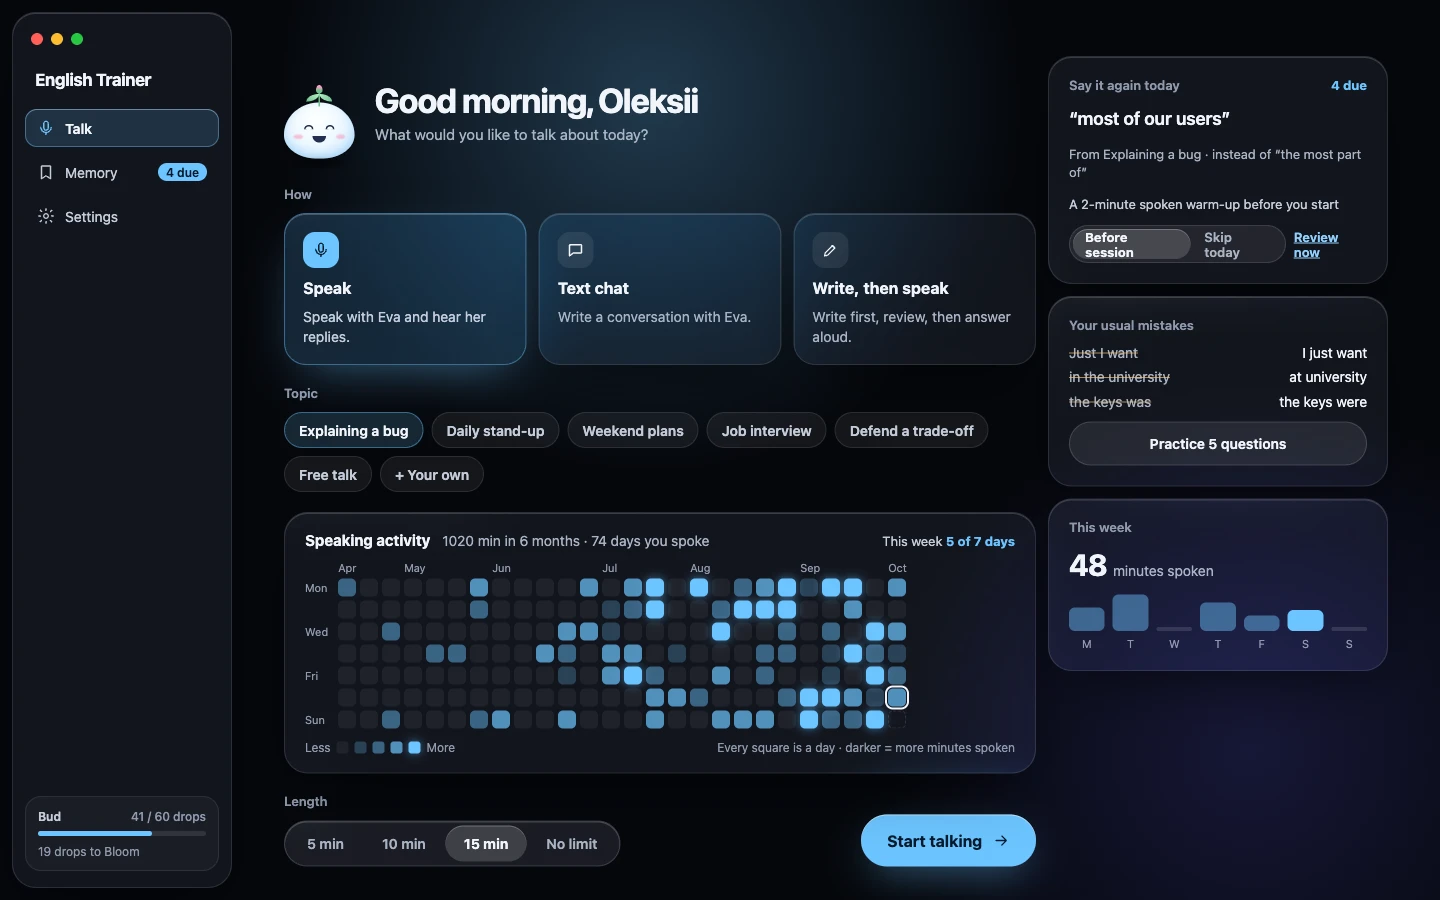
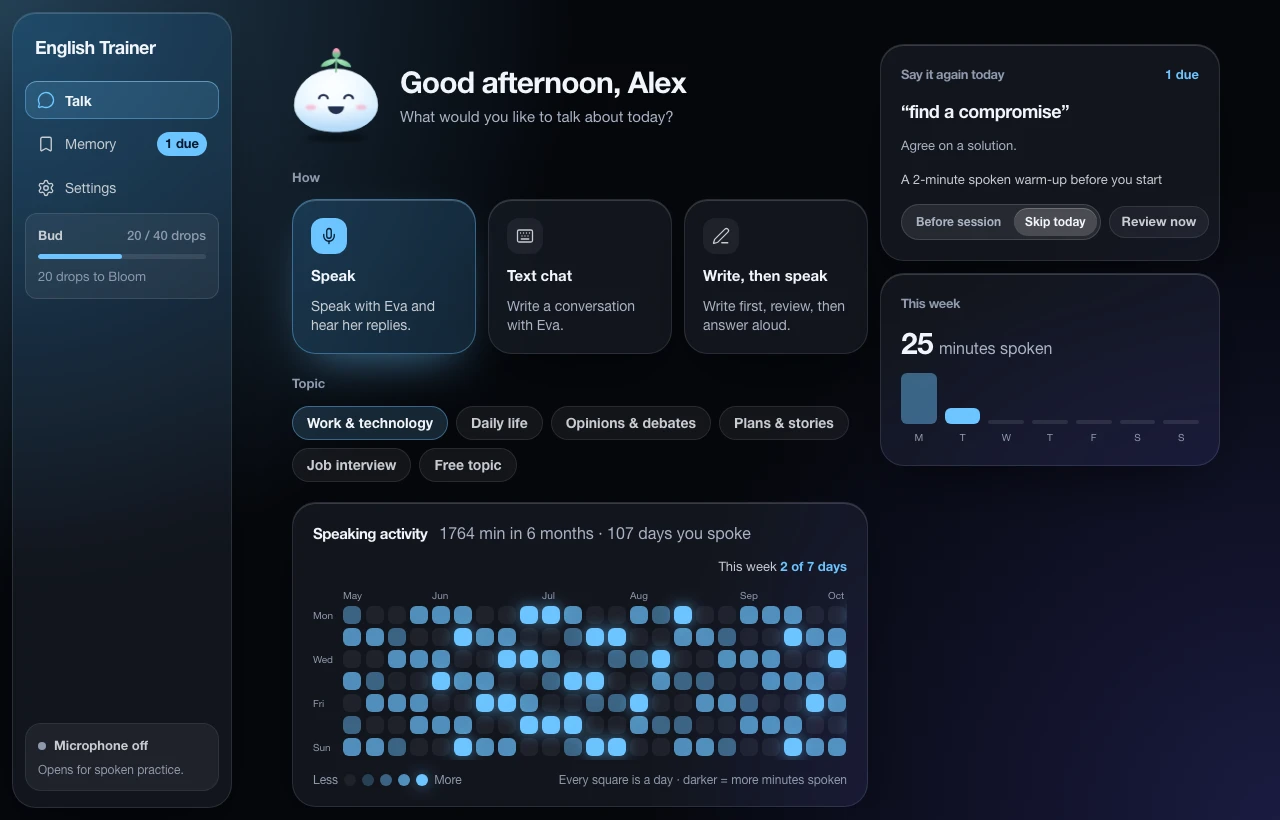
docs: README and FEATURES.md for the current app (#140)
Closes #139

## What

- `README.md`: current feature list (review after the conversation
instead of inline coaching, Eva growth, translation), a flat component
diagram and a link to `FEATURES.md`.
- `docs/images/start-screen.webp`: the glass Start screen in dark theme,
captured from the web build with e2e fake data (no personal history).
- `FEATURES.md`: built features grouped by screen (Start, Talk, Wrap-up,
Memory, Eva growth, Settings, First run, shared core), each with its
roadmap ID and links to its `flow.md`.

## Why

The README described the app before the glass redesign; there was no
single place that shows what is built and where each flow is described.

## Verification

- Every `src/**/flow.md` (56) is linked from `FEATURES.md`; every link
resolves.
- The Mermaid diagram renders (Mermaid 11).
- `bunx biome check README.md FEATURES.md` passes.
- `FEATURES.md` has a feature map: a Mermaid mindmap by screen and a
small learner-loop flowchart; both render.
- Docs only; nothing to check on the Mac.

diff --git a/FEATURES.md b/FEATURES.md
@@ -1,0 +1,163 @@
+# Features
+
+What is built, grouped by where the learner meets it. Each row links to the `flow.md` that shows how
+the feature works as a sequence diagram. IDs and acceptance status are in [ROADMAP](docs/ROADMAP.md);
+behaviour is specified in [PRODUCT_SPEC](docs/PRODUCT_SPEC.md).
+
+Code layers: a **screen** composes **features**; features share state through **core** modules and
+never import each other ([FRONTEND](docs/engineering/FRONTEND.md)).
+
+## Map
+
+Everything the learner can use, by screen:
+
+```mermaid
+mindmap
+  root((English Trainer))
+    Start
+      Practice setup
+      Greeting by name
+      Say it again today
+      Your usual mistakes
+      Speaking activity
+      Continue
+    Talk
+      Streaming conversation
+      Answer capture
+      Need help?
+      Stuck
+      Quiet tip marker
+      Learning use review
+      Spoken recall
+      Write, then speak
+      Translate a selection
+    Wrap-up
+      Session summary
+      Your conversation
+    Memory
+      Practice cards
+      Spoken review
+      Library
+    Eva growth
+      Growth card and screen
+      Look and Dock icon
+    Settings
+      Conversation AI and key
+      Microphone and speech
+      Voice
+      About you
+      Translation
+      Appearance and privacy
+    First run
+      Microphone
+      AI provider
+      Voice
+```
+
+How the screens connect in the learning loop:
+
+```mermaid
+flowchart LR
+  first["First run<br/>microphone · AI · voice"] --> start["Start<br/>mode · topic · length"]
+  start -->|"Speak · Text chat<br/>Write, then speak"| talk["Talk<br/>help · Stuck · translate"]
+  talk -->|"Finish"| wrap["Wrap-up<br/>review of every answer"]
+  wrap -->|"saved phrases<br/>and mistakes"| memory["Memory<br/>library"]
+  memory -->|"due today"| review["Spoken review<br/>warm-up"]
+  review --> talk
+  memory -->|"usual mistakes"| talk
+  talk -.->|"minutes spoken"| growth["Eva grows<br/>Dock icon"]
+```
+
+## Start
+
+The first screen: how and what to talk about, and what is due today.
+Screen: [`screens/talk-start`](src/screens/talk-start/flow.md).
+
+| Feature | ID | What it does | Flow |
+| :--- | :---: | :--- | :--- |
+| Practice setup | F8 | Speak, Text chat or Write, then speak; a topic; a suggested length or No limit | [practice-setup](src/features/practice-setup/flow.md) |
+| Greeting by name | F8 | "Good afternoon, Alex" from the saved profile | [personal-profile](src/features/personal-profile/flow.md) |
+| Say it again today | F10 | The next due phrase, with a spoken warm-up before the session or a skip | [review-warmup](src/features/review-warmup/flow.md) |
+| Your usual mistakes | F12 | Up to three repeated mistakes and a five-question practice | [usual-mistakes](src/features/usual-mistakes/flow.md) |
+| Speaking activity | — | A 26-week grid and "This week" minutes, from local sessions only | [speaking-activity](src/features/speaking-activity/flow.md) |
+| Continue | — | Resumes a conversation that is still open, also after a restart | [session-resume](src/features/session-resume/flow.md) |
+
+## Talk
+
+The conversation itself. Screen: [`screens/talk`](src/screens/talk/flow.md).
+
+| Feature | ID | What it does | Flow |
+| :--- | :---: | :--- | :--- |
+| Streaming conversation | F1, F4 | Eva's reply streams in and is spoken sentence by sentence; the learner can interrupt | [practice-turn](src/core/practice-turn/flow.md) · [talk-dialogue](src/features/talk-dialogue/flow.md) |
+| Answer capture | F2, F3 | Warm microphone, push-to-talk or hands-free, turn detection, live transcript | [answer-capture](src/core/answer-capture/flow.md) · [talk-composer](src/features/talk-composer/flow.md) |
+| Session header and clock | F8 | Progress, the session clock and Finish | [talk-session](src/features/talk-session/flow.md) |
+| Need help? | F6 | Frame, Phrases and a model Example, prepared before the learner starts | [answer-help](src/features/answer-help/flow.md) |
+| Stuck | F7 | Next step, a simpler way to say it or a missing word, without ending the recording | [rescue](src/features/rescue/flow.md) |
+| Quiet tip marker | F5 | An answer with a review waiting gets a marker; the review itself is on the wrap-up | [talk-dialogue](src/features/talk-dialogue/flow.md) |
+| Learning use review | — | Did the learner use a saved phrase or avoid a known mistake | [usage-review](src/features/usage-review/flow.md) |
+| Spoken recall | — | After the last answer, say a phrase saved in an earlier session | [spoken-recall](src/features/spoken-recall/flow.md) |
+| Write, then speak | F11 | Write an answer, see it reviewed, then say it aloud and see that reviewed | [write-speak](src/features/write-speak/flow.md) |
+| Translate a selection | F13 | A selected word or phrase in the learner's language plus an English explanation, on the Mac | [text-translation](src/features/text-translation/flow.md) |
+
+## Wrap-up
+
+The page after Finish. Screen: [`screens/wrap-up`](src/screens/wrap-up/flow.md).
+
+| Feature | ID | What it does | Flow |
+| :--- | :---: | :--- | :--- |
+| Session summary | F9 | Numbers, up to three phrases worth learning, save and undo | [wrap-up](src/features/wrap-up/flow.md) |
+| Your conversation | F5 | Every answer with a more natural version, the changed words marked, one reason, Hear it and Say it again | [coaching-note](src/features/coaching-note/flow.md) |
+
+## Memory
+
+Saved phrases and recurring mistakes. Screens: [`screens/memory`](src/screens/memory/flow.md),
+[`screens/spoken-review`](src/screens/spoken-review/flow.md).
+
+| Feature | ID | What it does | Flow |
+| :--- | :---: | :--- | :--- |
+| Practice cards | F10, F12 | Start the spoken review or the usual-mistakes practice | [memory-practice](src/features/memory-practice/flow.md) |
+| Spoken review | F10 | A situation per due item, the answer aloud, Rust decides whether the wording came up | [spoken-review](src/features/spoken-review/flow.md) |
+| Library | — | Phrases and mistakes with their evidence (Say it now, With help), search, archive and delete | [memory-library](src/features/memory-library/flow.md) |
+| Learning data | — | Reads and decodes Memory from Rust for every feature above | [learning-memory](src/core/learning-memory/flow.md) |
+
+## Eva growth
+
+Eva grows from a seed to full bloom with every minute spoken; nothing wilts and there are no streaks.
+Screen: [`screens/growth`](src/screens/growth/flow.md).
+
+| Feature | ID | What it does | Flow |
+| :--- | :---: | :--- | :--- |
+| Growth card and screen | — | The sidebar card, the stage strip, "How Eva grows" and "Today" | [eva-growth](src/features/eva-growth/flow.md) · [core](src/core/eva-growth/flow.md) |
+| Eva's look and Dock icon | — | Colours, motion, show growth, a Dock icon that grows with her | [eva-settings](src/features/eva-settings/flow.md) · [eva-look](src/core/eva-look/flow.md) |
+
+## Settings
+
+Screen: [`screens/settings`](src/screens/settings/flow.md).
+
+| Feature | ID | What it does | Flow |
+| :--- | :---: | :--- | :--- |
+| Conversation AI | F1 | Provider, Eva's style, Test AI response | [ai-provider](src/features/ai-provider/flow.md) · [ai-settings](src/core/ai-settings/flow.md) |
+| Gemini key | F1 | The key goes to an encrypted file; only its status comes back | [gemini-key](src/features/gemini-key/flow.md) |
+| Usage | — | Requests counted and limit errors noted for Gemini and `agy` | [api-usage](src/features/api-usage/flow.md) |
+| Conversation flow | F2 | Hands-free, listening after Eva, interrupting by voice, end-of-turn pause, auto-send | [conversation-flow-settings](src/features/conversation-flow-settings/flow.md) · [core](src/core/conversation-flow/flow.md) |
+| Microphone | F2 | Input device, live level, ten-second check | [microphone-settings](src/features/microphone-settings/flow.md) · [audio](src/core/audio/flow.md) |
+| Speech recognition | F3 | Whisper model, a speech check on the learner's own voice, live transcript | [speech-recognition-settings](src/features/speech-recognition-settings/flow.md) |
+| Personal glossary | F3 | Words and names Whisper should know | [glossary](src/features/glossary/flow.md) |
+| Voice | V1 | Natural local voices or system voices, speed, a sample | [voice-settings](src/features/voice-settings/flow.md) · [voice-preference](src/core/voice-preference/flow.md) · [speech](src/core/speech/flow.md) |
+| About you | F8 | Name, role, stack, interests and goals for Eva's prompts | [personal-profile](src/features/personal-profile/flow.md) |
+| Translation | F13 | Native language and preparing the language pair | [translation-settings](src/features/translation-settings/flow.md) · [core](src/core/translation-settings/flow.md) |
+| Appearance | — | System, Light or Dark | [appearance](src/features/appearance/flow.md) |
+| Privacy | — | What stays on the Mac, keeping raw audio, deleting recordings | [privacy](src/features/privacy/flow.md) |
+| Setup details | — | What the app found for Whisper, `agy` and the database; run setup again | [setup-details](src/features/setup-details/flow.md) |
+
+## First run
+
+Three steps on the first launch: microphone, AI provider with the Gemini key, and Eva's voice.
+Screen: [`screens/first-run`](src/screens/first-run/flow.md) · rules: [first-run](src/core/first-run/flow.md).
+
+## Shared core
+
+| Module | What it owns | Flow |
+| :--- | :--- | :--- |
+| Practice session | The open conversation, its stage and the Rust boundary | [practice-session](src/core/practice-session/flow.md) |
+| External link | Opening links in the browser | [external-link](src/core/external-link/flow.md) |

diff --git a/README.md b/README.md
@@ -1,42 +1,46 @@
 # English Trainer
 
 Practise **speaking** English with Eva, an AI partner on your Mac that answers in about two seconds,
-helps you structure an answer while you speak, and brings back the phrases worth remembering.
+helps you structure an answer and brings back the phrases worth remembering.
 
 macOS · Apple Silicon · local speech recognition · your history never leaves the Mac
 
-![The start screen: choose how and what to talk about, with speaking activity and phrases due today](docs/images/start-screen.webp)
+![The Start screen: how and what to talk about, a phrase to say again today and speaking activity](docs/images/start-screen.webp)
 
 ## Features
 
-- **Talk** — a voice conversation: push-to-talk or hands-free, Eva answers in a natural local voice
-  while her reply is still being generated, and you can interrupt her
-- **Inline coaching** — "More natural: …" and one focus point under each answer, without ever
-  delaying the conversation; say it again and see what changed
-- **Help while speaking** — a frame, phrases and a model answer prepared before you start, plus a
-  "stuck" rescue and missing-word finder in the middle of an answer
-- **Learning Memory** — phrases and recurring mistakes return as short spoken tasks and as targets in
-  later conversations; status changes only on real, unprompted use
-- **Write, then speak**, text chat, practice of your usual mistakes, and on-device word translation
+- **Talk** — a voice conversation, push-to-talk or hands-free; Eva answers in a natural local voice
+  while the reply is still streaming, and you can interrupt her
+- **Help while speaking** — a frame, phrases and a model answer before you start, and a "Stuck"
+  rescue in the middle of an answer
+- **Review after the conversation** — every answer gets a more natural version and one reason on the
+  wrap-up; the conversation never waits for it
+- **Learning Memory** — saved phrases and recurring mistakes come back as a spoken review, a
+  warm-up and a practice of your usual mistakes
+- **Write, then speak**, text chat and on-device translation of a selected word or phrase
+- **Eva grows** from a seed to full bloom as you speak, and the Dock icon grows with her
 - **Private by default** — Whisper runs locally and raw audio is discarded; only the transcript goes
   to the AI provider
+
+What each feature does and how it works: [FEATURES.md](FEATURES.md).
 
 ## How it works
 
 ```mermaid
 flowchart LR
-  mic["Microphone<br/>Web Audio, 16 kHz PCM"] --> ui["React UI<br/>Effect services · atoms"]
-  ui <-->|"typed IPC (ts-rs)"| core["Rust core<br/>sessions · learning · SQLite"]
-  core --> stt["Whisper<br/>local server"]
-  core -->|"stream"| conv["Gemini API / Apple on-device<br/>conversation"]
-  core -.->|"background"| eval["agy (Gemini Flash)<br/>coaching · wrap-up · review"]
+  mic["Microphone<br/>Web Audio · 16 kHz PCM"] --> ui["React UI<br/>screens · Effect · atoms"]
+  ui <-->|"typed IPC (ts-rs)"| core["Rust core<br/>sessions · learning rules"]
+  core --> stt["whisper.cpp<br/>local speech recognition"]
+  core -->|"streamed reply"| live["Gemini API · Apple on-device<br/>conversation"]
+  core -.->|"background"| bg["agy (Gemini Flash)<br/>coaching · wrap-up · review"]
   core --> db[("SQLite<br/>history · Memory")]
-  core --> tts["Natural voice<br/>local Supertonic 3"]
-  tts -.->|"fallback"| sys["macOS voices"]
+  core --> tts["Supertonic 3<br/>local natural voice"]
+  core --> tr["Apple Translation<br/>word lookup"]
+  tts -.->|"busy or slow"| sys["macOS voices"]
 ```
 
-The reply streams to the UI and is spoken sentence by sentence; coaching, help and wrap-up run in
-parallel and never block the next turn.
+The reply streams to the UI and is spoken sentence by sentence; coaching, help and the wrap-up run
+in parallel and never block the next turn. Details: [ARCHITECTURE](docs/ARCHITECTURE.md).
 
 ## Run it locally
 
@@ -47,13 +51,13 @@ bun install
 bun run dev
 ```
 
-Speech model, AI keys, checks and building the installer: [`docs/SETUP.md`](docs/SETUP.md).
+Speech model, AI keys, checks and building the app: [`docs/SETUP.md`](docs/SETUP.md).
 
 ## Documentation
 
 | | |
 | :--- | :--- |
-| [Product](docs/PRODUCT_SPEC.md) · [Roadmap](docs/ROADMAP.md) · [Design](docs/DESIGN.md) | what it does, what is next, how it looks |
+| [Features](FEATURES.md) · [Product](docs/PRODUCT_SPEC.md) · [Roadmap](docs/ROADMAP.md) · [Design](docs/DESIGN.md) | what is built, what it does, what is next, how it looks |
 | [Architecture](docs/ARCHITECTURE.md) · [Technical requirements](docs/TECHNICAL_REQUIREMENTS.md) | runtime structure and contracts |
 | [Code requirements](CODE_REQUIREMENTS.md) · [`docs/engineering/`](docs/engineering) | how code is written: layers, Effect, Rust, tests |
 | [Contributing](CONTRIBUTING.md) · [AGENTS.md](AGENTS.md) | issue → PR workflow; entry point for AI coding agents |
